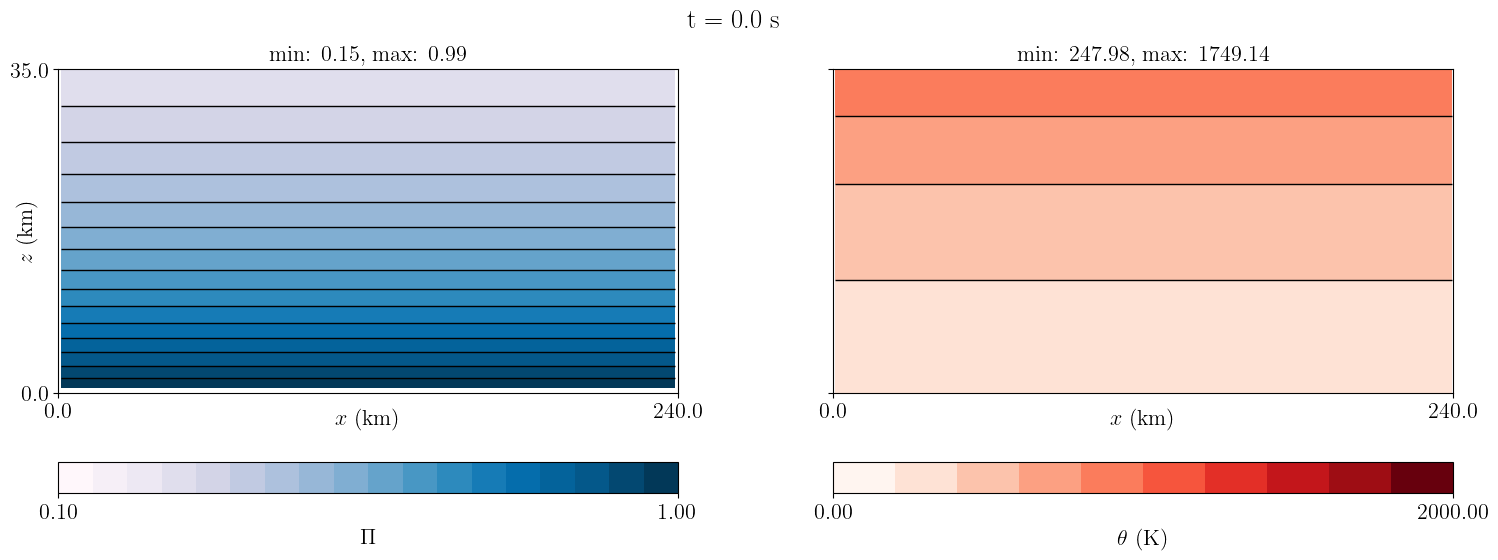
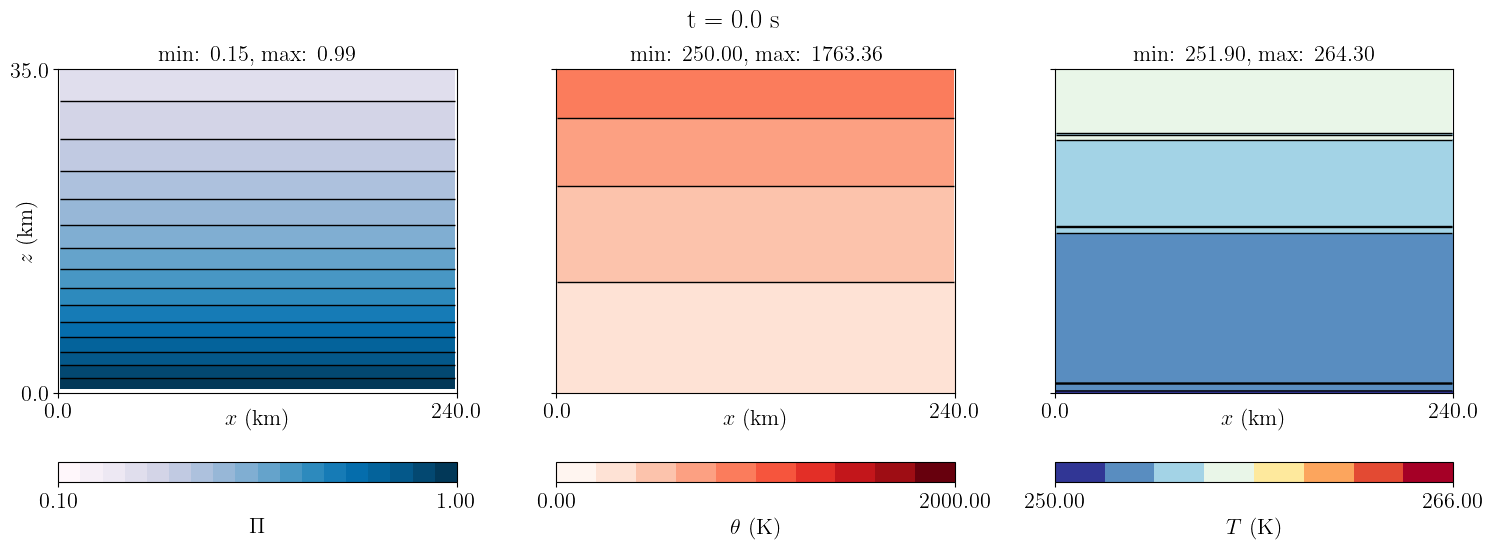
update hydrostatic mountain plots

diff --git a/plotting/compressible_euler/plot_mountain_hydrostatic.py b/plotting/compressible_euler/plot_mountain_hydrostatic.py
@@ -79,7 +79,7 @@ for i, (ax, field_name, colour_scheme, field_label) in \
         reshape_gusto_data(field_data, coords_X, coords_Y)
 
     if field_name == 'Temperature':
-        contours = np.linspace(249.99, 250.01, 4)
+        contours = np.linspace(250.0, 266.0, 9)
     else:
         contours = tomplot_contours(field_data)
     cmap, lines = tomplot_cmap(contours, colour_scheme)
